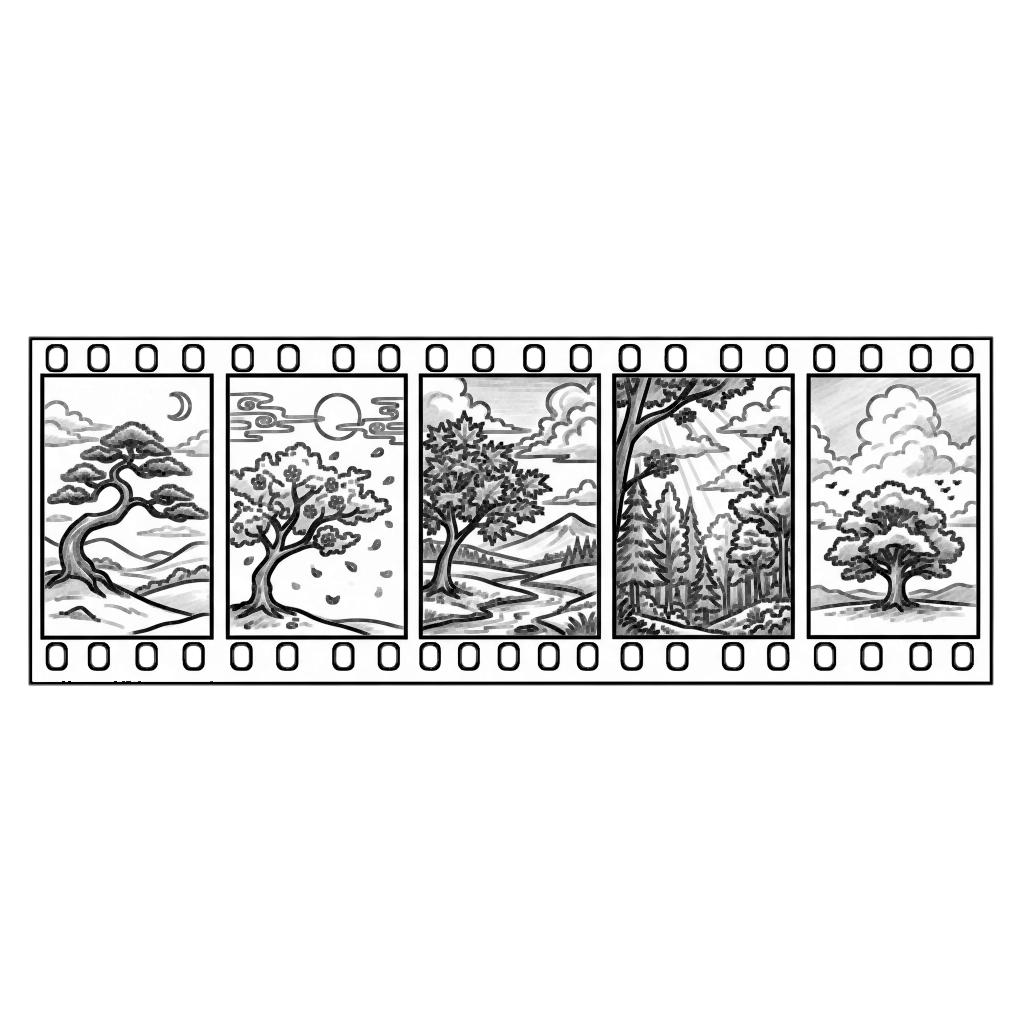
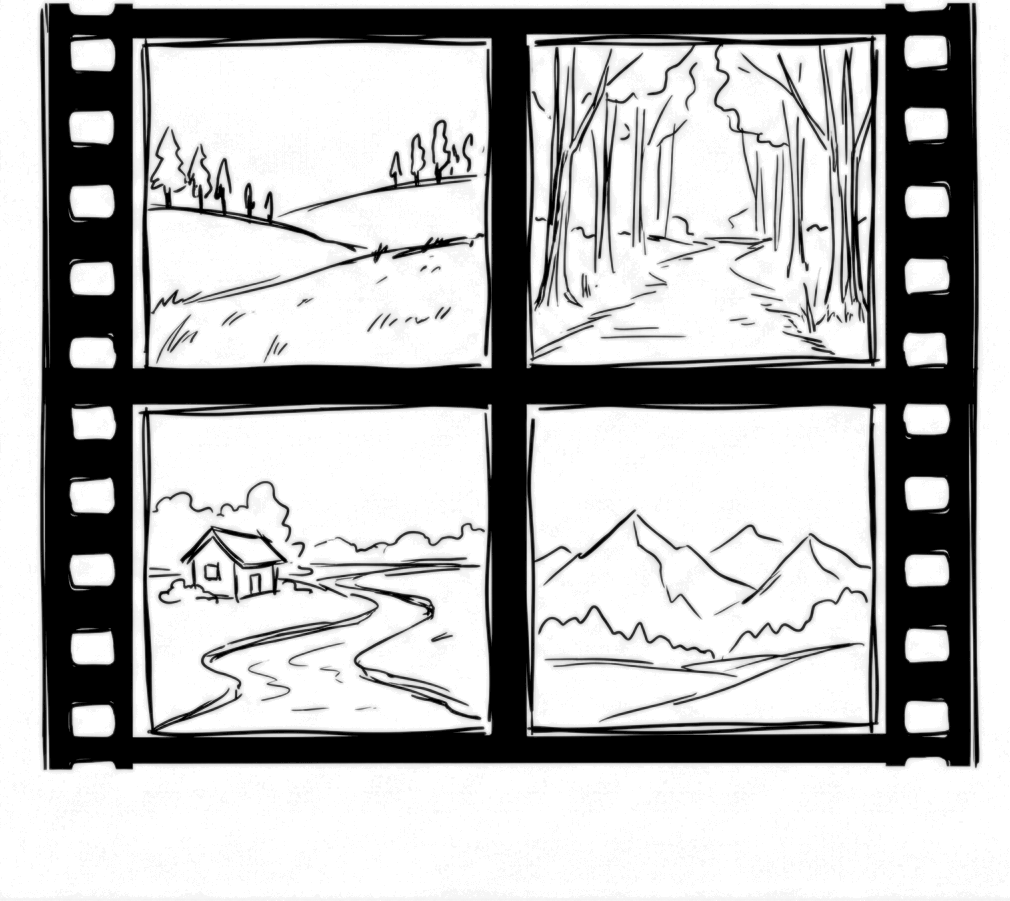
fix(blog): replace Loganime horizontal film strip thumbnail with a square contact sheet

diff --git a/docs/CHANGELOG.md b/docs/CHANGELOG.md
@@ -5,6 +5,27 @@ All notable changes to this project will be documented in this file.
 The format is based on [Keep a Changelog](https://keepachangelog.com/en/1.0.0/),
 and this project adheres to [Semantic Versioning](https://semver.org/spec/v2.0.0.html).
 
+## [2.3.0] - 2026-06-24
+### Added
+- Watching: Added a cached Letterboxd film diary at `/watching/`, plus recent films and ratings on `/now/` with optional manual entries and overrides.
+
+## [2.2.1] - 2026-06-24
+### Changed
+- L3MS post: Reframed the 12GB benchmark story around the complete download, build, benchmark, serving, TUI/CLI, and dashboard workflow behind the results.
+
+## [2.2.0] - 2026-06-24
+### Added
+- Reading: Synced public Goodreads shelves into `/reading/` and `/now/` with cached build-time fallbacks and manual additions or overrides.
+- Now: Added `nowPage.yaml` as a fill-in-ready source for highlights and updates, and archived the previous page snapshot.
+
+### Changed
+- Reading: Made Kindle progress optional so Goodreads books without a manual percentage render cleanly.
+- Upper Midrange Is the Place to Be: Corrected the Ars forum attribution and reframed the essay around the RTX 4070, base PS5, Logitech M720, MacBook Air, thrifted Blu-ray player, and cheap-bike learning path.
+
+## [2.1.1] - 2026-06-24
+### Fixed
+- loganime-test-v1-stamp-trim.png: Replaced the narrow horizontal film strip thumbnail with a square-ish 2x2 contact sheet sketch to prevent it from rendering too small in archive lists.
+
 ## [2.1.0] - 2026-06-24
 ### Added
 - Reviews: Added a dedicated `/reviews/` collection and editorial index for product reviews and buying articles.